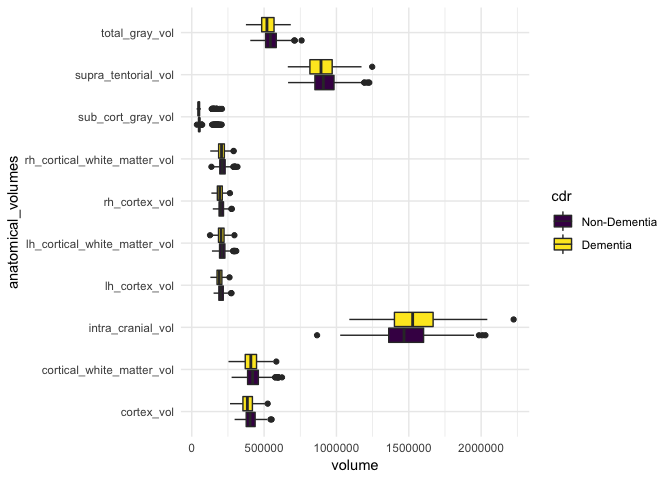
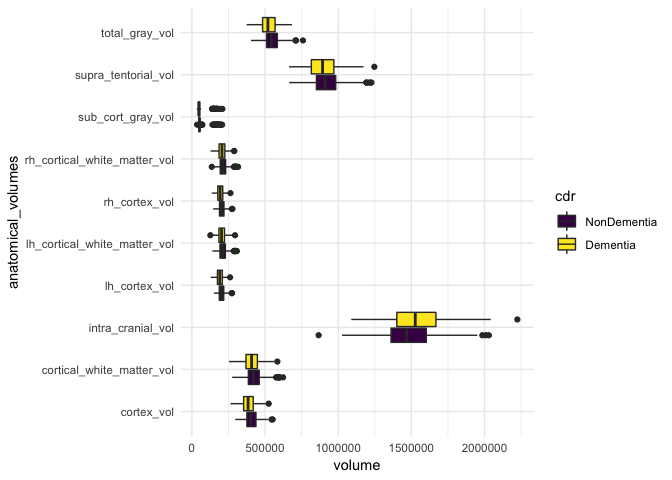
knn clustering

diff --git a/final_data_munging.md b/final_data_munging.md
@@ -36,7 +36,7 @@ community through free distribution and compilation. The OASIS-3 release
 is a retrospective compilation of longitudinal neuroimaging, clinical,
 cognitive, and biomarker data of 1098 participants in several research
 studies at the Charles F. and Joanne Knight Alzheimer’s Disease Research
-Center at Washington University i n St. Louis over the course of 30
+Center at Washington University in St. Louis over the course of 30
 years. Of included participants, 609 are cognitively normal and 489 are
 in various stages of cognitive decline, with ages ranging from 42 - 95
 years.
@@ -299,7 +299,7 @@ cog_data <- last_data %>%
   mutate(cdr = factor(case_when(cdr == 0 ~ 0,
                                 cdr > 0 ~ 1), 
                       levels = c(0, 1),
-                      labels = c("Non-Dementia", "Dementia"))) %>% 
+                      labels = c("NonDementia", "Dementia"))) %>% 
   select(-adrc_adrcclinicaldata_id, -fs_fsdata_id, -starts_with("dx"), -starts_with("day")) %>% 
   mutate(age = age_at_entry + year_round) %>% 
   select(subject, age, year_round, cdr, mmse, apoe, height, weight, intra_cranial_vol:cortical_white_matter_vol) 
@@ -326,6 +326,7 @@ Finally, write our csv:
 
 ``` r
 write_csv(cog_data, "./data/cog_data")
+saveRDS(cog_data, "./data/cog_data.RDS")
 ```
 
 ## Plots
@@ -361,23 +362,219 @@ cog_data %>%
 table(cog_data$cdr, cog_data$protective_e2)
 ```
 
-    ##               
-    ##                  0   1   2
-    ##   Non-Dementia 569 103   6
-    ##   Dementia     257  36   2
+    ##              
+    ##                 0   1   2
+    ##   NonDementia 569 103   6
+    ##   Dementia    257  36   2
 
 ``` r
 table(cog_data$cdr, cog_data$risk_e4)
 ```
 
-    ##               
-    ##                  0   1   2
-    ##   Non-Dementia 451 200  27
-    ##   Dementia     126 144  25
+    ##              
+    ##                 0   1   2
+    ##   NonDementia 451 200  27
+    ##   Dementia    126 144  25
 
 From this, it appears that the presence of risk alleles may be more
 important that the protective alleles as a risk factor for dementia.
 Further, we note small differences in cortical volumes (aside from total
 intracranial volume, which is a corrective factor not strictly of
 interest): white matter volume, cortex volume, and grey volume seem
-slightly smaller in the dementia group.
+slightly smaller in the dementia
+group.
+
+\#kmeans
+
+``` r
+library(factoextra) #provides visualization tools for clustering and PCA (ggplot based)
+```
+
+    ## Welcome! Related Books: `Practical Guide To Cluster Analysis in R` at https://goo.gl/13EFCZ
+
+``` r
+library(gridExtra)
+```
+
+    ## 
+    ## Attaching package: 'gridExtra'
+
+    ## The following object is masked from 'package:dplyr':
+    ## 
+    ##     combine
+
+``` r
+library(corrplot)
+```
+
+    ## corrplot 0.84 loaded
+
+``` r
+library(RColorBrewer)  #nice color palettes
+library(gplots) #heatmap for better visualization
+```
+
+    ## 
+    ## Attaching package: 'gplots'
+
+    ## The following object is masked from 'package:stats':
+    ## 
+    ##     lowess
+
+``` r
+library(caret)
+```
+
+    ## Loading required package: lattice
+
+    ## 
+    ## Attaching package: 'caret'
+
+    ## The following object is masked from 'package:purrr':
+    ## 
+    ##     lift
+
+``` r
+cog_data <- readRDS("./data/cog_data_preproc.RDS")
+
+set.seed(1)
+train_index <- createDataPartition(cog_data$cdr, p = 2/3, list = FALSE, times = 1)
+cog_train <- cog_data[train_index,] 
+
+set.seed(12)
+preProc_fn <- preProcess(cog_train[3:10], 
+           method = c("center", "scale", "knnImpute"),
+          k = 5,
+          knnSummary = mean,
+          verbose = TRUE)
+```
+
+    ## Calculating 8 means for centering
+    ## Calculating 8 standard deviations for scaling
+
+``` r
+cog_data[3:10] <- predict(preProc_fn, cog_data[3:10]) 
+
+# select k through silhouette
+fviz_nbclust(cog_data[3:10],
+             FUNcluster = kmeans,
+             method = "silhouette")
+```
+
+![](final_data_munging_files/figure-gfm/unnamed-chunk-7-1.png)<!-- -->
+
+``` r
+set.seed(1) #because there is randomness in the results
+km <- kmeans(cog_data[3:10] , centers = 3, nstart = 20) #because the previous results gave us 3 as the best K; nstart = 20 so multiple random starts
+
+km_vis <- fviz_cluster(list(data = cog_data[3:10], cluster = km$cluster), 
+                        ellipse.type = "convex", geom = "point", 
+                        palette = "Dark2") + labs(title = "K-means") 
+
+km_vis
+```
+
+![](final_data_munging_files/figure-gfm/unnamed-chunk-7-2.png)<!-- -->
+
+``` r
+cog_data %>% 
+  mutate(cluster_membership = factor(km$cluster)) %>% 
+  group_by(cluster_membership) %>% 
+  count(cdr) %>% 
+  spread(cdr, n) %>% 
+  mutate('Cluster Percent Dementia' = Dementia/(NonDementia+ Dementia))
+```
+
+    ## # A tibble: 3 x 4
+    ## # Groups:   cluster_membership [3]
+    ##   cluster_membership NonDementia Dementia `Cluster Percent Dementia`
+    ##   <fct>                    <int>    <int>                      <dbl>
+    ## 1 1                          244      105                      0.301
+    ## 2 2                          354      163                      0.315
+    ## 3 3                           96       35                      0.267
+
+``` r
+#select k through gap
+
+fviz_nbclust(cog_data[3:10],
+             FUNcluster = kmeans,
+             method = "gap")
+```
+
+![](final_data_munging_files/figure-gfm/unnamed-chunk-7-3.png)<!-- -->
+
+``` r
+set.seed(1) #because there is randomness in the results
+km_2 <- kmeans(cog_data[3:10] , centers = 6, nstart = 20) 
+
+km_vis <- fviz_cluster(list(data = cog_data[3:10], cluster = km$cluster), 
+                        ellipse.type = "convex", geom = "point", 
+                        palette = "Dark2") + labs(title = "K-means") 
+
+km_vis
+```
+
+![](final_data_munging_files/figure-gfm/unnamed-chunk-7-4.png)<!-- -->
+
+``` r
+cog_data %>% 
+  mutate(cluster_membership = factor(km_2$cluster)) %>% 
+  group_by(cluster_membership) %>% 
+  count(cdr) %>% 
+  spread(cdr, n) %>% 
+  mutate('Cluster Percent Dementia' = Dementia/(NonDementia + Dementia))
+```
+
+    ## # A tibble: 6 x 4
+    ## # Groups:   cluster_membership [6]
+    ##   cluster_membership NonDementia Dementia `Cluster Percent Dementia`
+    ##   <fct>                    <int>    <int>                      <dbl>
+    ## 1 1                           90       58                      0.392
+    ## 2 2                           99       96                      0.492
+    ## 3 3                          112       67                      0.374
+    ## 4 4                           90       29                      0.244
+    ## 5 5                          128       25                      0.163
+    ## 6 6                          175       28                      0.138
+
+``` r
+#Plots on brain volume show the clustering algorithm found variability not explained by dementia status.
+cog_data %>% 
+   mutate(cluster_membership = factor(km_2$cluster)) %>% 
+  ggplot(aes(y = rh_cortical_white_matter_vol, x = cluster_membership, fill = cdr)) +
+  coord_flip() +
+  geom_boxplot() + theme_bw() + scale_fill_viridis_d()
+```
+
+![](final_data_munging_files/figure-gfm/unnamed-chunk-7-5.png)<!-- -->
+
+``` r
+cog_data %>% 
+   mutate(cluster_membership = factor(km_2$cluster)) %>% 
+  ggplot(aes(y = lh_cortex_vol, x = cluster_membership, fill = cdr)) +
+  coord_flip() +
+  geom_boxplot() + theme_bw() + scale_fill_viridis_d()
+```
+
+![](final_data_munging_files/figure-gfm/unnamed-chunk-7-6.png)<!-- -->
+
+``` r
+cog_data %>% 
+   mutate(cluster_membership = factor(km_2$cluster)) %>% 
+  ggplot(aes(y = intra_cranial_vol, x = cluster_membership, fill = cdr)) +
+  coord_flip() +
+  geom_boxplot() + theme_bw() + scale_fill_viridis_d()
+```
+
+![](final_data_munging_files/figure-gfm/unnamed-chunk-7-7.png)<!-- -->
+
+``` r
+#not terribly useful plot of cluster means of standardized counts of e2/e4 alleles  by dementia status
+cog_data %>% 
+   mutate(cluster_membership = factor(km_2$cluster)) %>% 
+  group_by(cluster_membership, cdr) %>% 
+  count(mean_risk = mean(risk_e4), mean_protective = mean(protective_e2)) %>% 
+  ggplot(aes(x = mean_risk, y = mean_protective, size = n, color = cdr)) +
+  geom_point(alpha = 0.9) + theme_bw()
+```
+
+![](final_data_munging_files/figure-gfm/unnamed-chunk-7-8.png)<!-- -->
